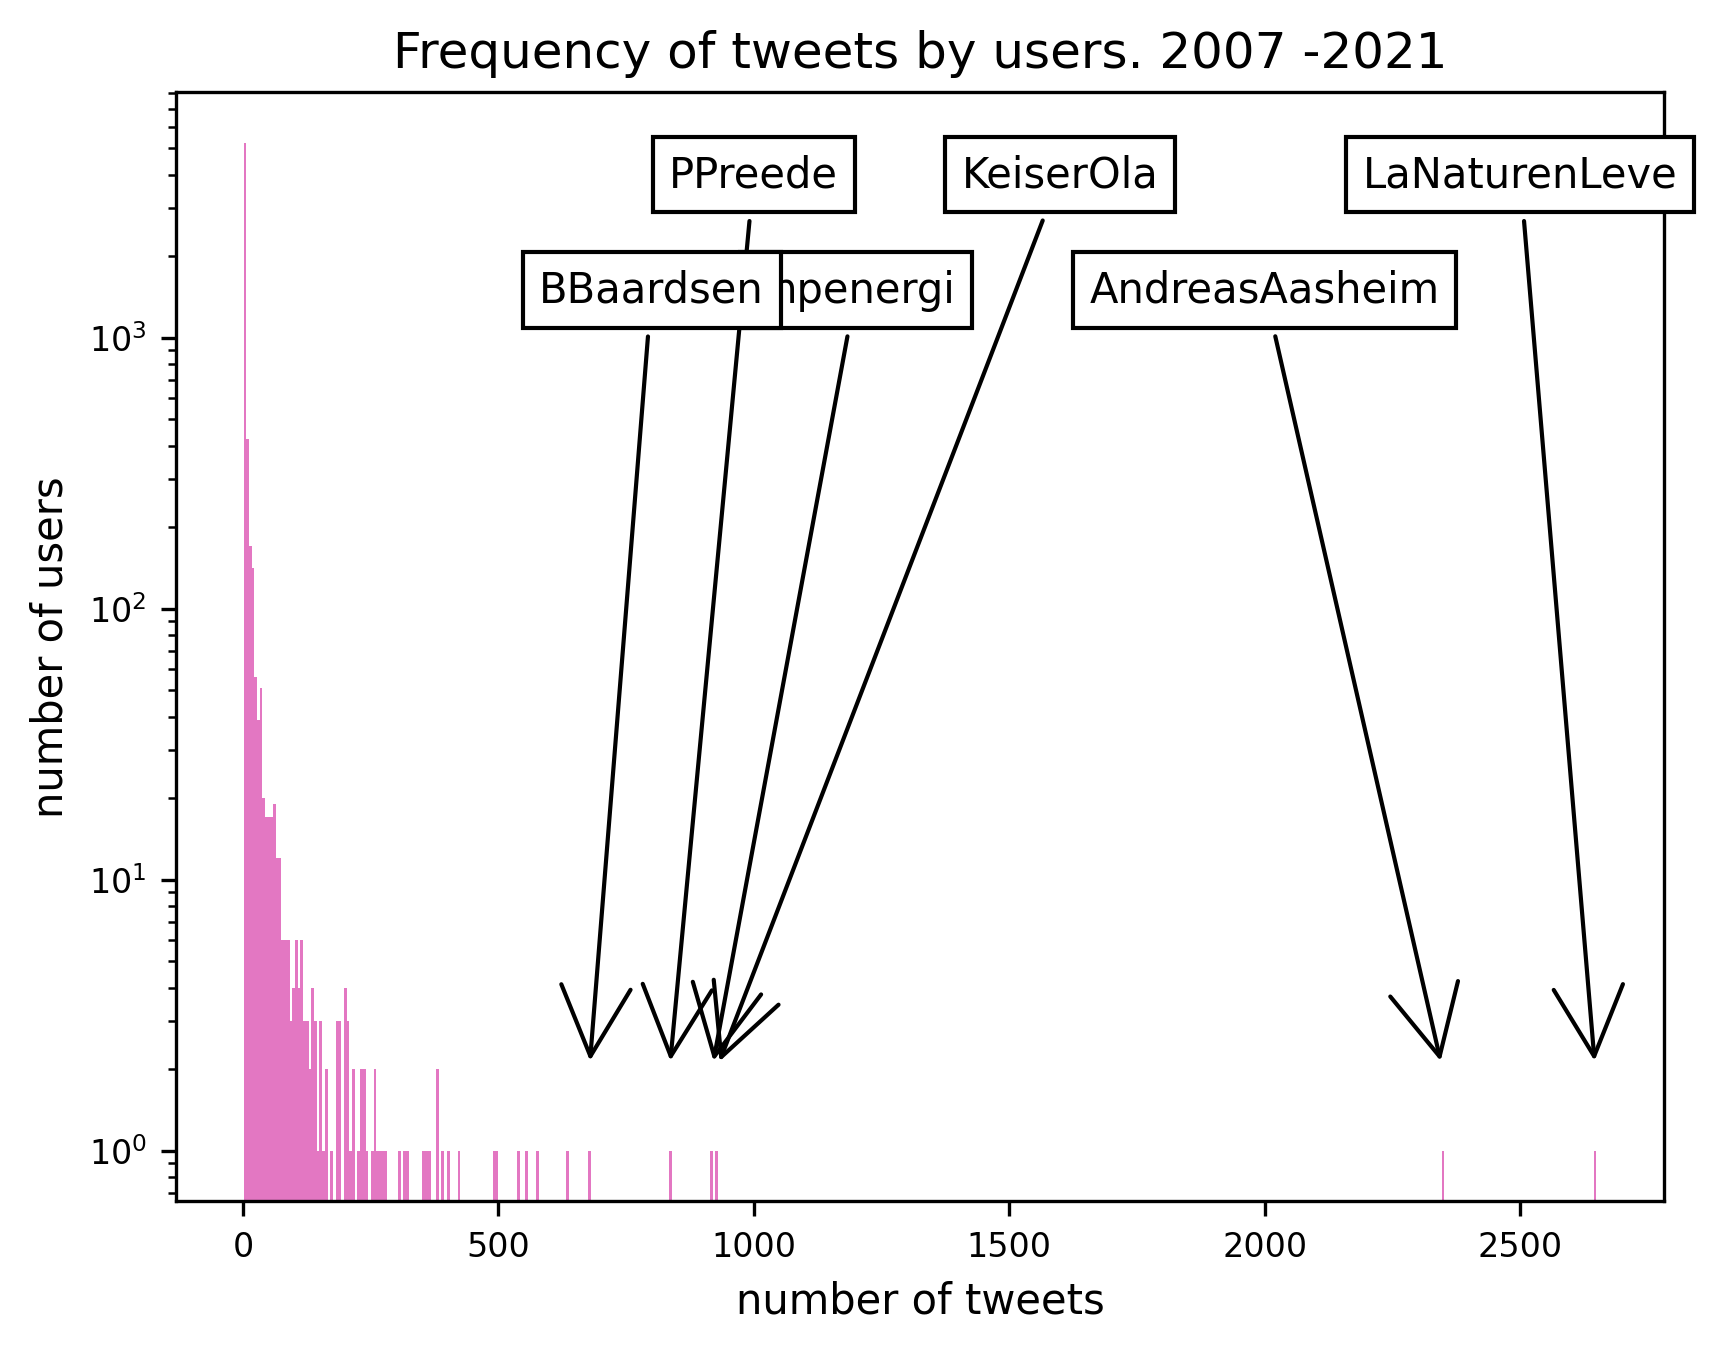
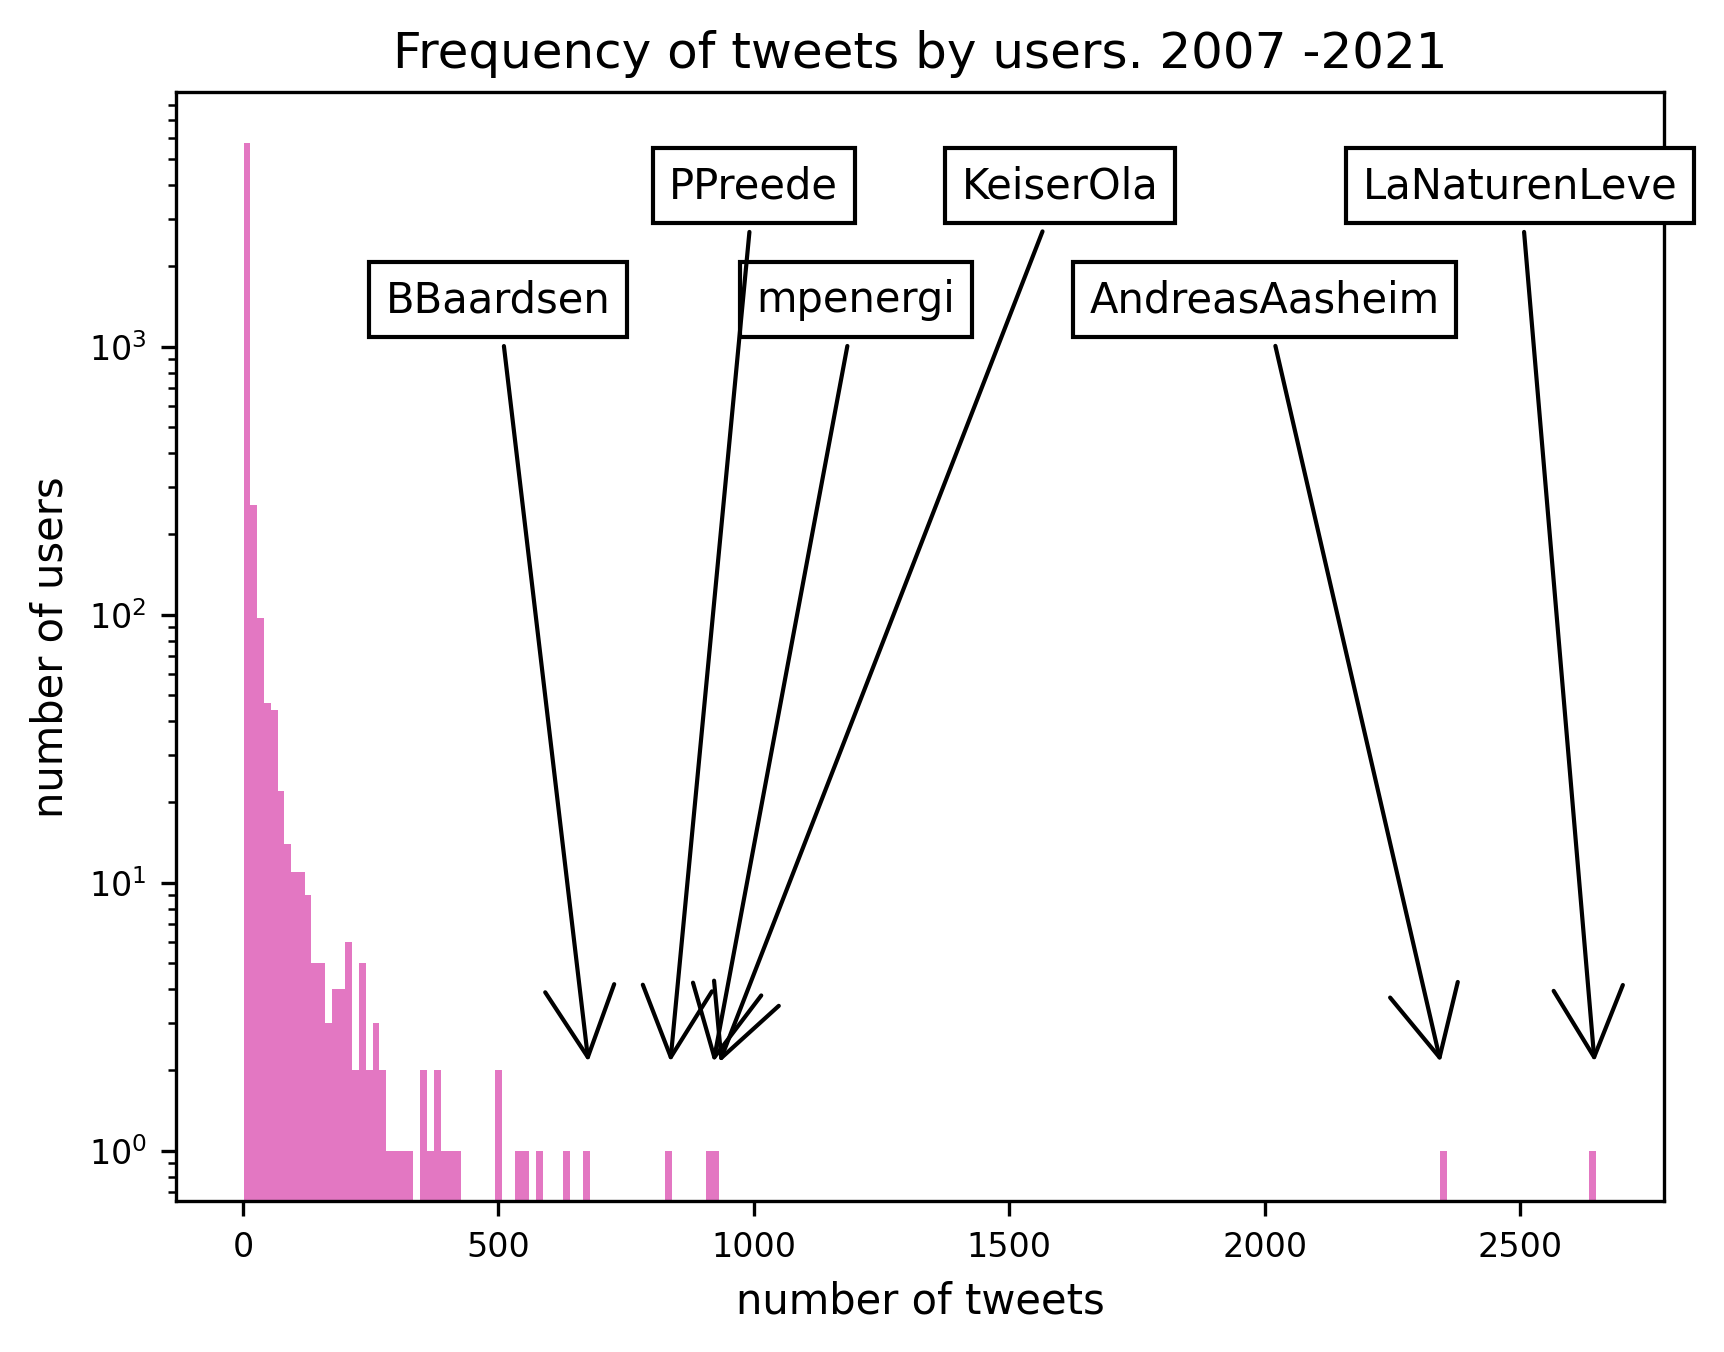
plot upate

diff --git a/data/anon_identifier.py b/data/anon_identifier.py
@@ -61,12 +61,6 @@ def anonymizer():
     
 
     max_key = max(tweet_occurances, key=tweet_occurances.get)
-    print(max_key)
-    print('tweet occurances')
-    print(list(sorted_tweet_occurances)[-1])
-    print(list(sorted_tweet_occurances)[-2])
-    print(list(sorted_tweet_occurances)[-3])
-    print(tweet_occurances[list(sorted_tweet_occurances)[-1]])
 
     p1, t1 = (list(sorted_tweet_occurances)[-1], tweet_occurances[list(sorted_tweet_occurances)[-1]])
     #making a marker for the highest tweets user
@@ -127,12 +121,11 @@ def anonymizer():
     ax.plot(xy6[0], xy6[1])
     offsetbox6 = TextArea(p6)
     ab6 = AnnotationBbox(offsetbox6, xy6,
-                        xybox = (800, 1500),
+                        xybox = (500, 1500),
                         #box_alignment = (5, 1),
                         arrowprops = dict(arrowstyle='->'))
 
-    print(tweet_occurances.values())
-    ax.hist(tweet_occurances.values() , bins = np.linspace(1, max_number_of_tweets+2, 500))
+    ax.hist(tweet_occurances.values() , bins = np.linspace(1, max_number_of_tweets+2, 200))
     plt.yscale('log')
     plt.xscale('linear')
     plt.ylabel('number of users')
